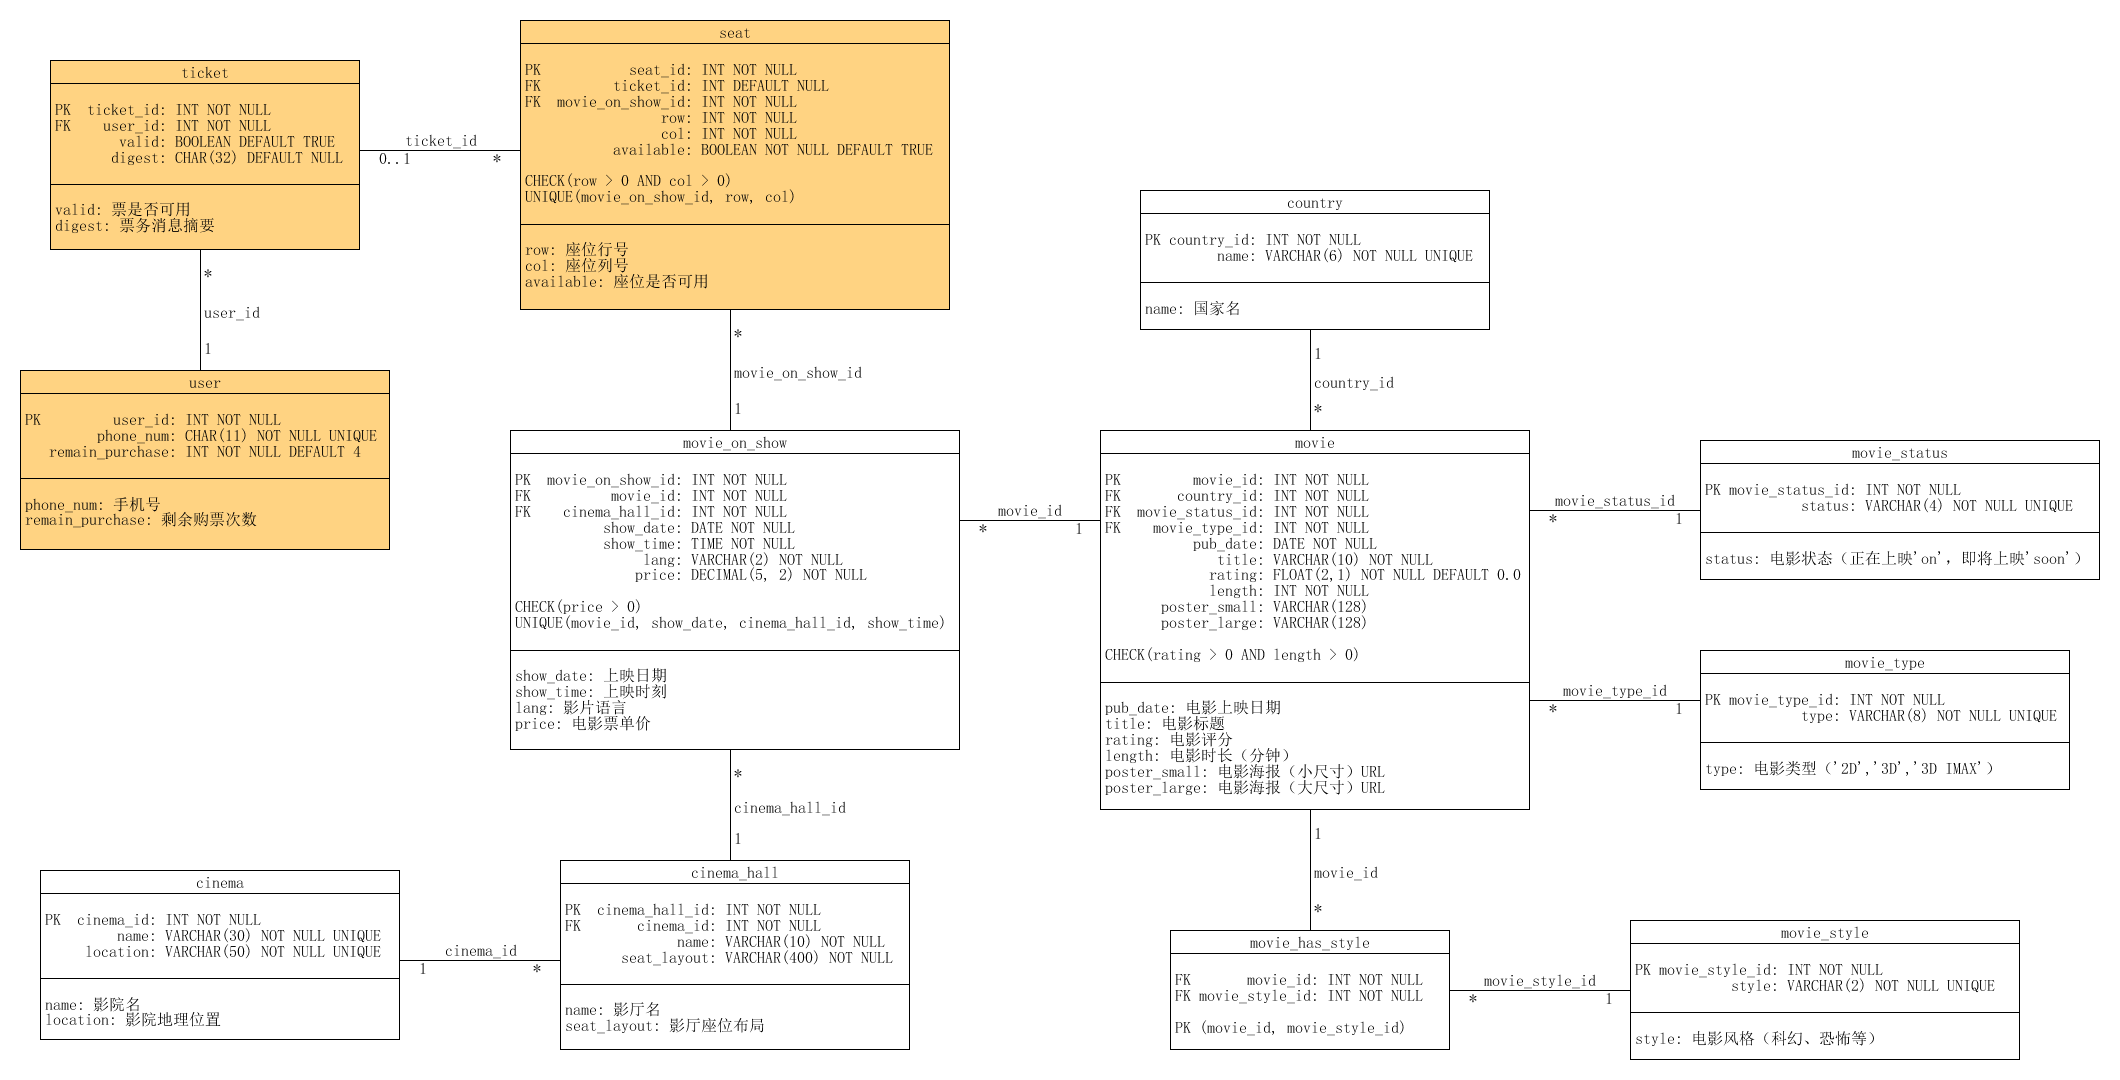
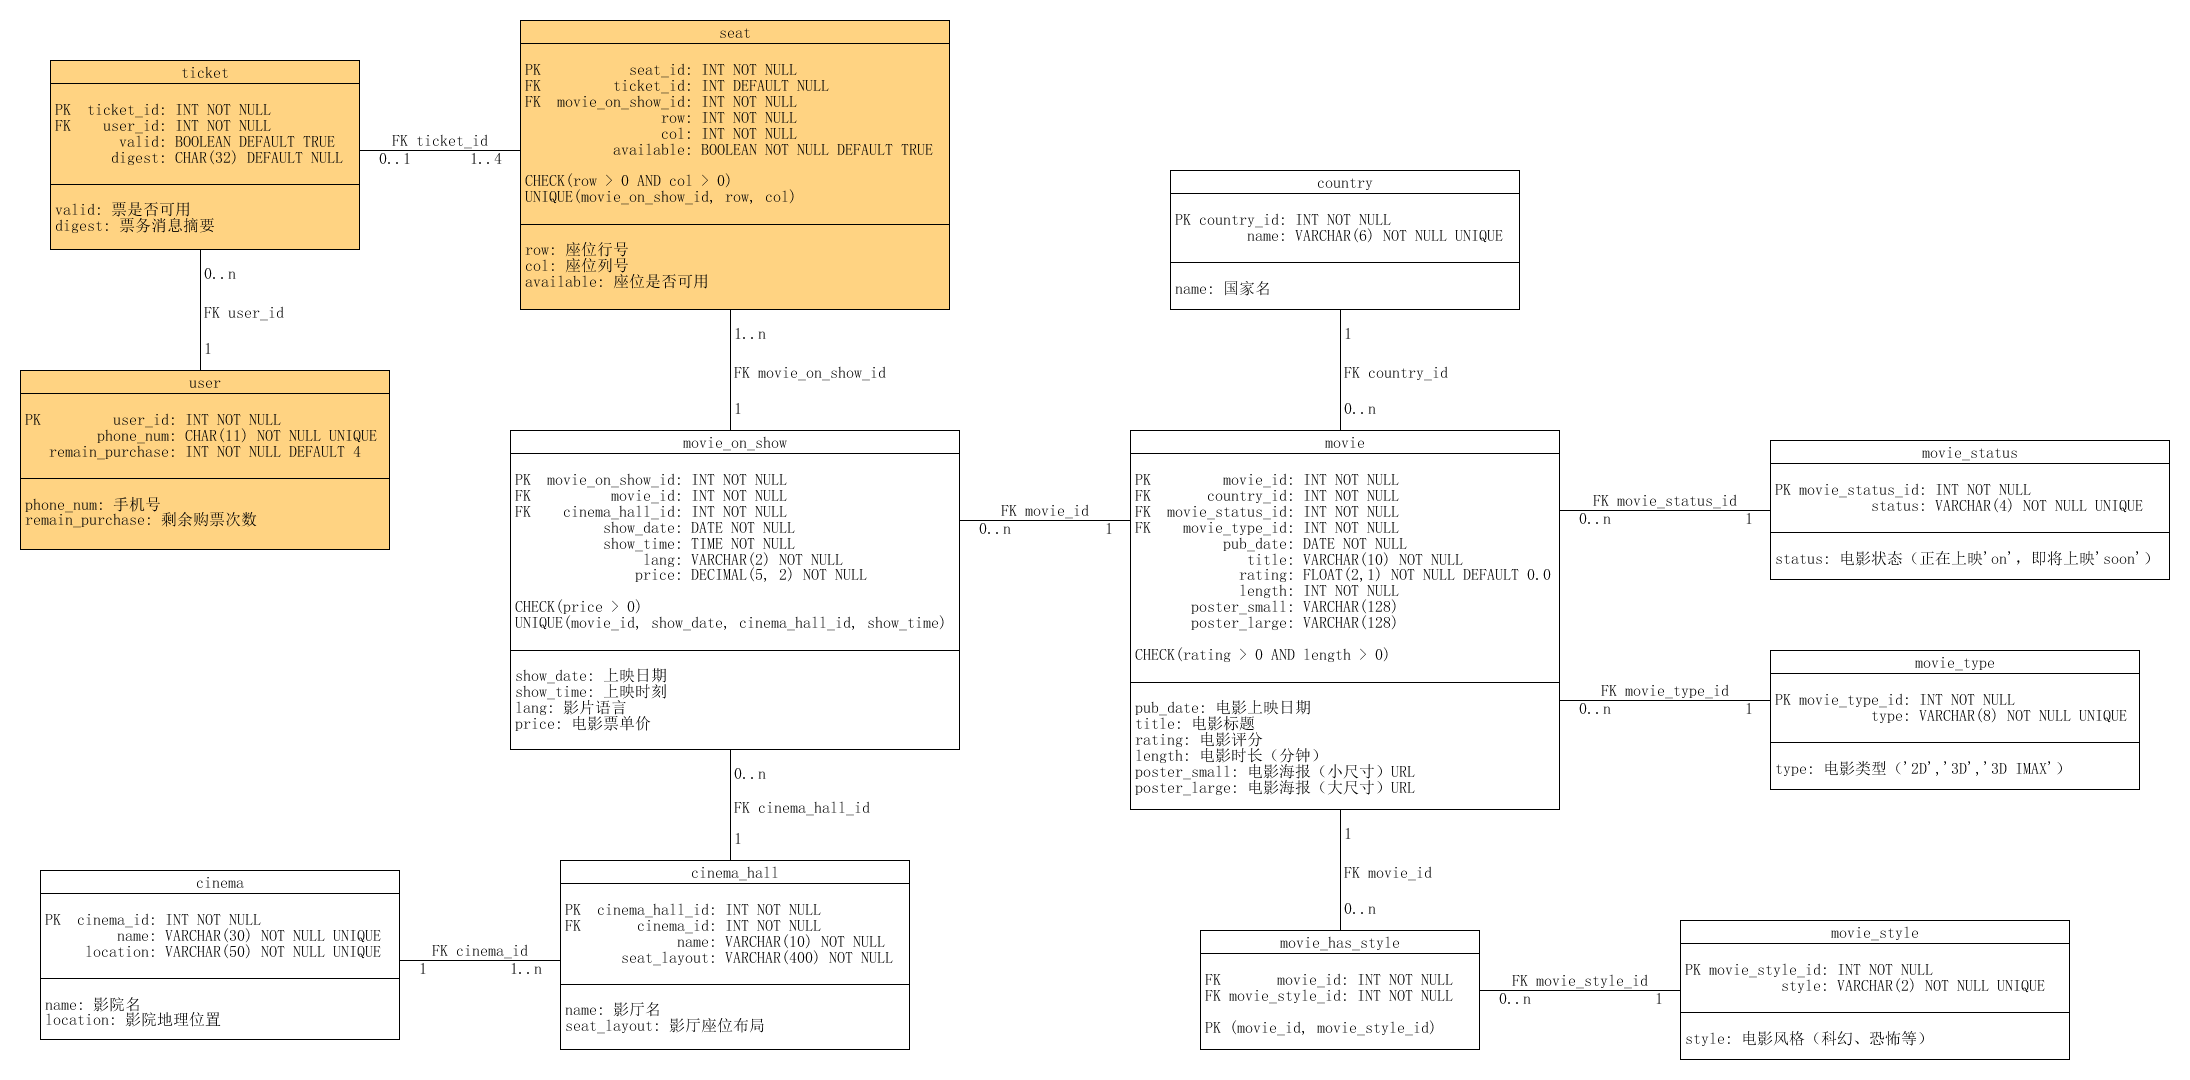
Update db design & API: submit phone number when buying tickets

diff --git a/doc/api.md b/doc/api.md
@@ -67,9 +67,10 @@ AwesomeTickets API 通过 HTTP Status Code 来说明 API 请求是否成功。
 |------|-------------|
 |450|座位已经被购买|
 |451|座位不存在|
-|452|无效的取票码|
-|453|超出今日购票次数上限|
-|454|票已被取出|
+|452|手机号未验证|
+|453|无效的取票码|
+|454|超出今日购票次数上限|
+|455|票已被取出|
 
 <a name="电影类"></a>
 ## 电影类
@@ -603,6 +604,7 @@ Request Parameters:
 | Param | Description |
 |-------|-------------|
 |movieOnShowId|电影排期 id|
+|phoneNum|已验证的手机号|
 |row1|第一张票的座位行号|
 |col1|第一张票的座位列号|
 |row2|第二张票的座位行号（可选）|
@@ -618,6 +620,7 @@ Response Properties:
 |----------|-------------|------|
 |movieOnShowId|电影排期 id|int|
 |seats|（座位行号，座位列号）数组|int|
+|phoneNum|购票手机号|string|
 |ticketCode|取票码|string|
 
 Response Example:
@@ -626,6 +629,7 @@ Response Example:
 {
     "movieOnShowId": 115,
     "seats": [[7, 8], [7, 9], [7, 10], [7, 11]],
+    "phoneNum": "13511112222",
     "ticketCode": "123456789"
 }
 ```
@@ -644,6 +648,7 @@ Request Parameters:
 | Param | Description |
 |-------|-------------|
 |ticketCode|取票码|
+|phoneNum|购票手机号|
 
 Response Properties:
 
@@ -651,13 +656,15 @@ Response Properties:
 |----------|-------------|------|
 |movieOnShowId|电影排期 id|int|
 |seats|（座位行号，座位列号）数组|int|
+|phoneNum|购票手机号|string|
 
 Response Example:
 
 ```json
 {
     "movieOnShowId": 115,
-    "seats": [[7, 8], [7, 9], [7, 10], [7, 11]]
+    "seats": [[7, 8], [7, 9], [7, 10], [7, 11]],
+    "phoneNum": "13511112222"
 }
 ```
 
@@ -675,6 +682,7 @@ Request Parameters:
 | Param | Description |
 |-------|-------------|
 |ticketCode|取票码|
+|phoneNum|购票手机号|string|
 
 Response Properties:
 
@@ -683,6 +691,7 @@ Response Properties:
 |movieOnShowId|电影排期 id|int|
 |seats|（座位行号，座位列号）数组|int|
 |valid|票是否可用（未被取出）|boolean|
+|phoneNum|购票手机号|string|
 
 Response Example:
 
@@ -690,6 +699,7 @@ Response Example:
 {
     "movieOnShowId": 115,
     "seats": [[7, 8], [7, 9], [7, 10], [7, 11]],
-    "valid": true
+    "valid": true,
+    "phoneNum": "13511112222"
 }
 ```
